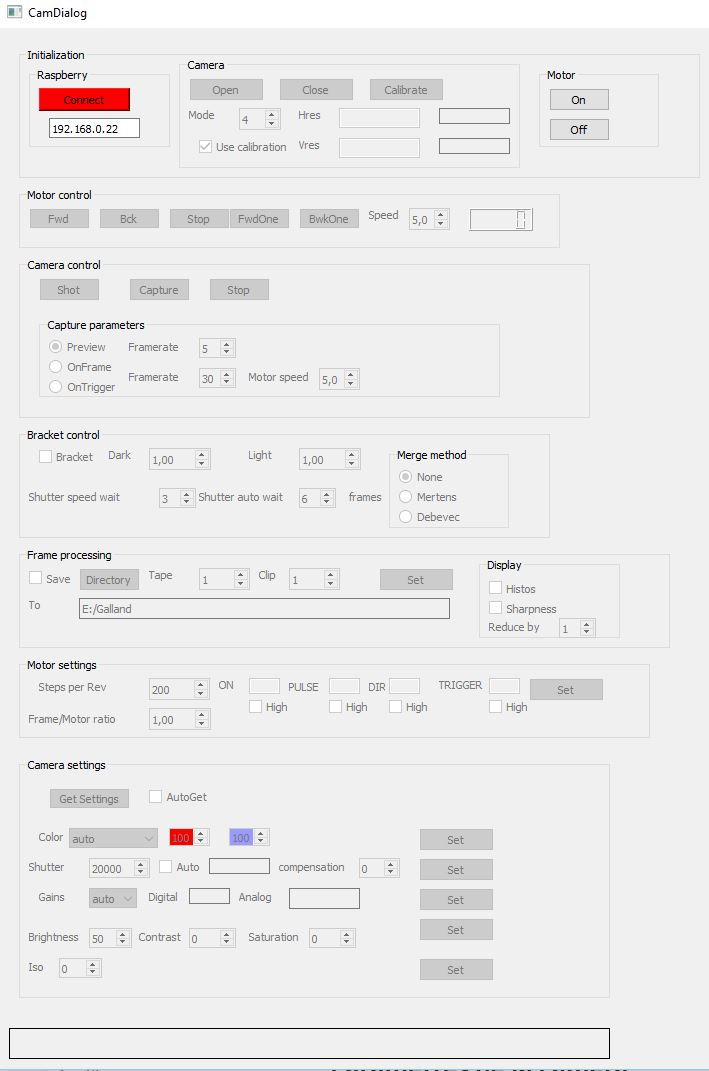
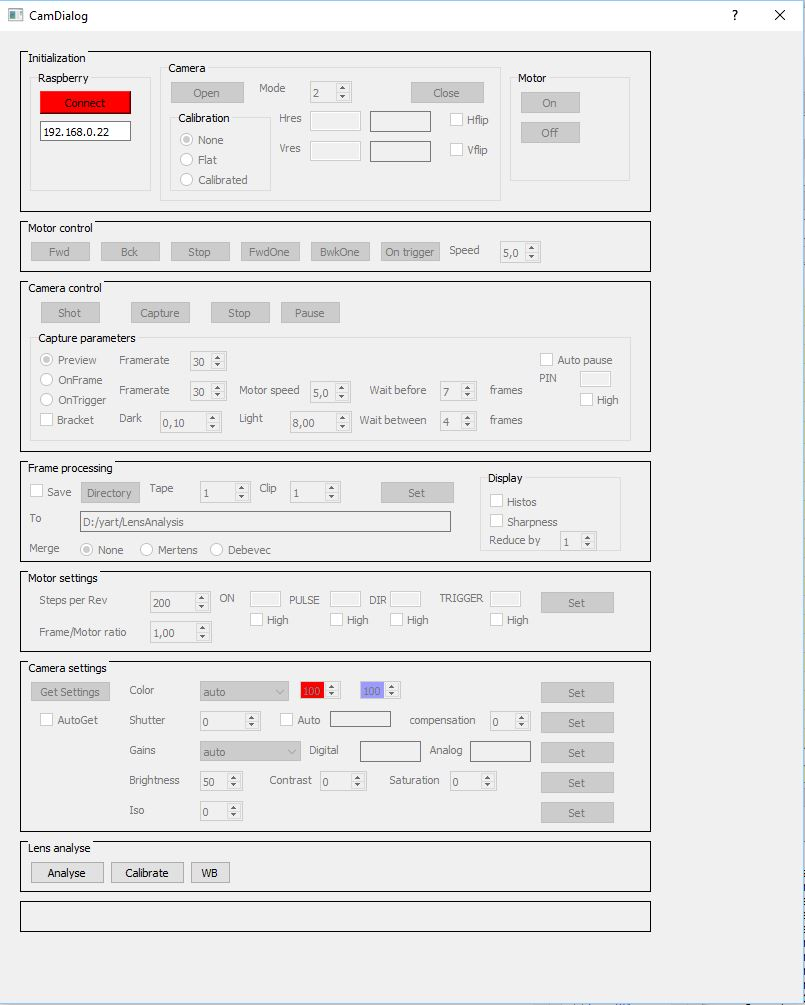
Updating the doc

diff --git a/yart.md b/yart.md
@@ -6,7 +6,9 @@ En premier lieu je dois remercier Joe Herman pour son projet https://github.com/
 
 ### Raspberry
 
-Raspberry Modèle B+
+Raspberry PI 3 Modèle B+
+
+Question du Raspberry P4: Les opérations d'entrée sortie, capture de l'image et envoi sur le réseau sont le facteur bloquant pour la performance et exécutées dans des threads séparées. L'application ne demande pas beaucoup de puissance CPU. Le Raspberry PI4 plus puissant n'apportera pas un gain significatif. Noter quand même que le PI4 a une meilleure performance réseau car l' interface réseau est indépendante  du bus USB.
 
 ### Caméra et optique
 
@@ -31,7 +33,7 @@ Deux solutions sont alors possibles:
 
 Je n'ai pas étudié ni fait le calcul optique pour la première solution.
 
-Pour la seconde solution et  une camera Raspberry V2 8MP Arducam avec monture CS et un objectif de 35mm le calcul optique montre:
+Pour la seconde solution est une camera Raspberry V2 8MP Arducam avec monture CS et un objectif de 35mm le calcul optique montre:
 
 - Image film 8mm 4,5x3,3 mm Capteur IMX219 3,68x2,76mm Grossissement 0,81 
 
@@ -100,7 +102,9 @@ Filtre bleu
 
 ![BlueV1](images/BlueV1.jpg)
 
-Et une image réelle non calibrée/calibrée
+Et pour une image réelle
+Haut: Non calibré/calibré
+Bas:Merge/Merge égalisée voir ci-dessous pour le merge
 
 ![v1](images/v1.jpg)
 
@@ -346,19 +350,25 @@ Ci-dessous l'image de l'interface de l'application sur le PC
 
 ### Ouvrir la camera
 
-Le plus simple est de choisir un sensor_mode prédéfini 
+Le plus simple est de choisir un sensor_mode prédéfini , le mode 2 en résolution maximale
 
 https://picamera.readthedocs.io/en/release-1.13/fov.html#sensor-modes
 
 La résolution sera alors la résolution par défaut de ce mode. On peut aussi spécifier la résolution désirée.
 
-On peut ouvrir la caméra avec ou sans calibration, ce qui permet de constater la différence.
+Modes d'ouverture de la camera:
 
-### Calibrer la caméra
+- None: Sans table de lens shading
+- Flat: Avec une table de lens-shading uniforme
+- Calibrated: Avec une table de lens shading calculée comme ci-dessous
+
+### Analyse de l'objectif et calibration
+
+Pour analyser et calibrer l'objectif il faut capturer une image <u>uniformément blanche</u> (pas de cadre noir par exemple). Personnellement  je place un diffuseur blanc devant la fenêtre du film et je mets la caméra un peu hors focus.
+
+Le bouton "Analyse" calcule un histogramme de répartition des couleurs le long des axes de l'image. Si la camera est ouverte sans table il permet de mettre en évidence le phénomène. Après calibration l'histogramme doit être plus plat et l'on peut ajuster les gains rouge et bleu pour obtenir une image neutre. Il est conseillé de noter et conserver ces gains pour toute la suite.
 
 Le bouton "Calibrate" exécute le programme de calibration repris du projet openflexure cité ci-dessus. Il crée un fichier calibrate.npz qui contient la lens_shading_table et qui sera utilisé à la prochaine ouverture de la caméra.
-
-Pour calibrer il faut capturer une image <u>uniformément blanche</u> (pas de cadre noir par exemple). Personnellement  je place un diffuseur blanc devant la fenêtre du film et je mets la caméra un peu hors focus
 
 ### Contrôle du moteur
 
@@ -383,9 +393,11 @@ Le moteur peut tourner en avant ou en arrière à une certaine vitesse ou par im
 
 ### Paramètres de la caméra
 
-On peut ajuster les paramètres de la caméra, cependant les meilleurs résultats sont obtenus en laissant les paramètres automatiques, color auto (automatic white balance) et shutter_speed  0 (automatic exposure). 
+Color: Il est conseillé de conserver "off" avec les gains calculés lors de la calibration
 
-### Capture
+Shutter: Conseillé de laisser 0  "automatic exposure" . On peut jouer sur compensation (comme une ouveture du diaphragme)
+
+### Contrôle de la caméra
 
 Shot: Capture une image (sans bracket)
 
@@ -428,7 +440,7 @@ Au final avec un bracket de 3 et un framerate  camera de 30fps vous devez obteni
 Il s'effectue sur le PC
 
 - "Histo" affiche l'histogramme de l'image
-- "Sharpness" Evalue et affiche la netteté de l'image pour une bonne mise au point (utiliser "Shot" ou "Play" avec 5fps) . La meilleur mise au point correspond à la valeur maximum de sharpness. L'amorce blanche au début du film permet de bien tester la mise au point.
+- "Sharpness" Evalue et affiche la netteté de l'image pour une bonne mise au point (utiliser "Shot" ou "Play" avec 5fps) . La meilleur mise au point correspond à la valeur maximum de sharpness. 
 - Reduce permet de réduire l'image affichée
 - "Merge"  Détermine l'algorithme de fusion "None"  "Mertens" ou "Debevec"
 - "Save" Sauvegarde les images dans le répertoire choisi. On peut choisir un numéro de bande et un numéro de clip. Pour chaque "Capture" les images sont numérotées à partir de 0
@@ -453,26 +465,34 @@ Encodage direct en sortie du script en AVC ou HEVC avec MeGui
 
 Ou bien sûr tout autre éditeur Video
 
+### Nettoyage des films Wetgate
 
+Pour le nettoyage des films le mieux sont les lingettes microfibre pour les lunettes.
 
+Les avis sont partagés sur le solvant à utiliser, produit spécifique onéreux, essence type C, ... Pour ma part j'utilise Shellsol D40, désaromatisé donc un peu moins toxique.
 
+Dans un premier temps on peut nettoyer le film dans un passage à la visionneuse.
 
+Pour les craquelures et  rayures, j'ai mis en œuvre un wetgate simplifié (une idée initiale de videofred et des suggestions de Alain Raynaud)
 
+![20190829_200131](images/20190829_200131.jpg) 
 
+La lingette microfibre est imbibée d'un mélange 50/50 Shellsol D40 et huile de paraffine, me pas mettre trop de produit, quelques gouttes suffisent.
 
+Lé résultat est spectaculaire:
 
+![wetgate](images/wetgate.jpg)
 
+Ce procédé évite de placer un diffuseur trop près de l'image, un tel diffuseur diminue bien les craquelures et rayures mais au prix d'une sensible perte de netteté.
 
+### Expériences utilisateurs
 
+Le montage de Alain Raynaud
+Camera V1 en mode 4
+Objectif 35mmCapture sans bracket en mode trigger
+AWB off après réglage des gains rouge et bleu
 
+	![P1050447](images/P1050447.JPG)	
+		![P1050449](images/P1050449.JPG)
 
-
-
-
-
-
-	
-	
-	
-	
-		
+![P1050448](images/P1050448.JPG)
